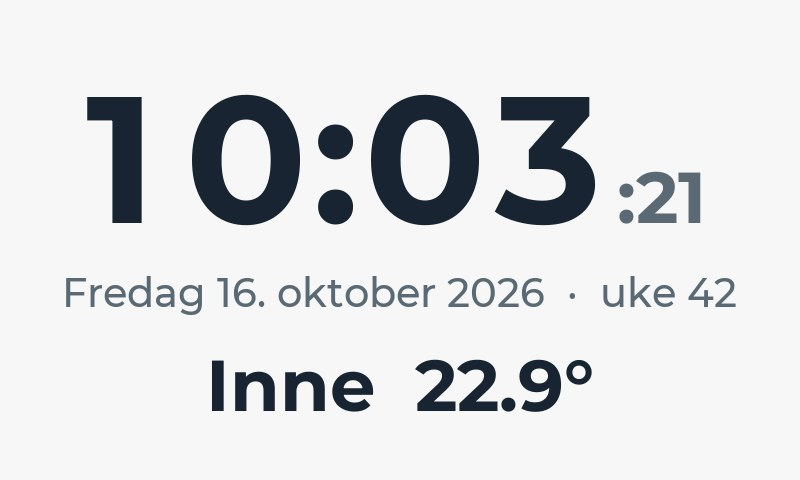
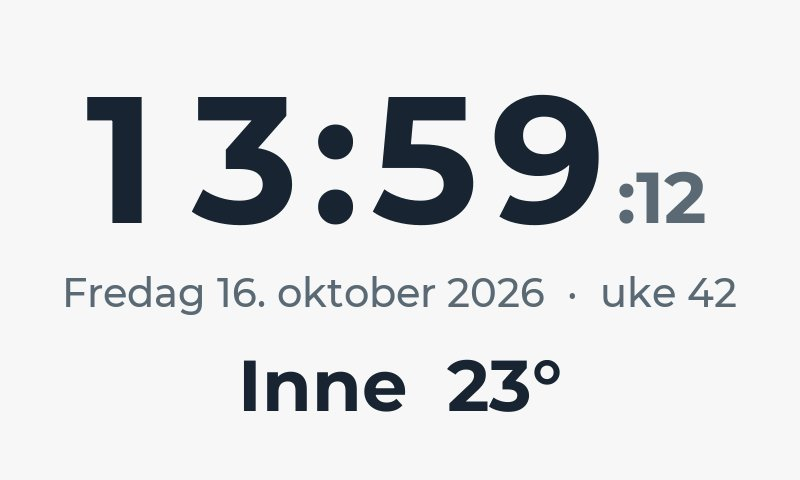
Clock screen: indoor temperature in whole degrees, version 1.19.1
The setup page keeps the tenths for calibrating, and says the clock
rounds them.

Claude-Session: https://claude.ai/code/session_01XfnDPVe3wRtXSM9B5h5WuE

diff --git a/server/bruk/index.html b/server/bruk/index.html
@@ -116,7 +116,7 @@ Pilene ved klokken blar fire uker fram eller tilbake. Skjermen går tilbake til 
 
 <section class="card" id="klokke">
 <h3>Klokke</h3>
-<p>Klokkeslettet med store tall, med sekundene mindre ved siden av. Under står dato og ukenummer, og nederst temperaturen inne.</p>
+<p>Klokkeslettet med store tall, med sekundene mindre ved siden av. Under står dato og ukenummer, og nederst temperaturen inne, i hele grader.</p>
 <p>Temperaturen måles av en sensor i selve brikken bak skjermen. Brikken er varmere enn rommet, omtrent 15 grader, så skjermen trekker fra en justering som du stiller inn én gang.
 Målingen jevnes ut over omtrent ett minutt. Den kan likevel variere en grad eller så etter hvor mye skjermen har å gjøre.</p>
 <div class="set"><b>Oppsett</b>Andre skjermer → Klokke → <i>Vis klokken</i> og <i>i automatisk bytte</i>. Slik stiller du inn temperaturen:
@@ -125,7 +125,7 @@ Målingen jevnes ut over omtrent ett minutt. Den kan likevel variere en grad ell
 <li>Legg et termometer ved skjermen og les av det.</li>
 <li>Skriv tallet inn i <i>Riktig temperatur nå (°C)</i>, for eksempel <code>21,5</code>, og lagre. Justeringen regnes da ut av seg selv.</li>
 </ol>
-Du kan også skrive justeringen direkte i <i>Justering (°C)</i>. Siden viser hva brikken måler nå, og hva som vises.
+Du kan også skrive justeringen direkte i <i>Justering (°C)</i>. Siden viser hva brikken måler nå, og hva det blir med justeringen, med én desimal.
 Justeringen gjelder bare denne skjermen og er ikke med i sikkerhetskopier.</div>
 <figure><img src="skjermer/klokke.jpg" alt="Klokke med klokkeslett, dato, ukenummer og innetemperatur" loading="lazy"><figcaption>Klokken med dato, ukenummer og temperaturen inne.</figcaption></figure>
 </section>

diff --git a/main/clockscreen.c b/main/clockscreen.c
@@ -26,7 +26,7 @@
 
 static lv_obj_t *s_root, *s_time, *s_hhmm[CLK_HHMM], *s_sec, *s_date, *s_temp;
 static time_t s_shown = -1; /* the second on show */
-static int s_shown_dc = -10000; /* the temperature on show, in tenths; -10000 = redraw, -10001 = none */
+static int s_shown_dc = -10000; /* the temperature on show, whole degrees; -10000 = redraw, -10001 = none */
 
 static bool dark(void)
 {
@@ -85,11 +85,12 @@ static void show_temp(void)
         }
         return;
     }
+    /* Whole degrees; the setup page shows the tenths for calibrating. */
     const int dc = (int)lroundf(raw * 10.0f) + g_cfg->temp_offset_dc;
-    if (dc != s_shown_dc) {
-        s_shown_dc = dc;
-        lv_label_set_text_fmt(s_temp, "Inne  %s%d.%d\xC2\xB0", dc < 0 ? "-" : "", (dc < 0 ? -dc : dc) / 10,
-                              (dc < 0 ? -dc : dc) % 10);
+    const int deg = (int)lroundf(dc / 10.0f);
+    if (deg != s_shown_dc) {
+        s_shown_dc = deg;
+        lv_label_set_text_fmt(s_temp, "Inne  %d\xC2\xB0", deg);
     }
 }
 

diff --git a/components/wifi_provision.c b/components/wifi_provision.c
@@ -276,14 +276,15 @@ static void tenths_text(char *dst, size_t len, int dc)
  * worked out on saving from what a thermometer shows (tempref). */
 static char *build_clock(char *p, char *end, const app_config_t *cfg)
 {
-    char off[16], now[128] = "Ingen m&aring;ling enn&aring;.";
+    char off[16], now[192] = "Ingen m&aring;ling enn&aring;.";
     tenths_text(off, sizeof(off), cfg->temp_offset_dc);
     float raw;
     if (chip_temp_raw(&raw)) {
         char r[16], shown[16];
         tenths_text(r, sizeof(r), (int)lroundf(raw * 10.0f));
         tenths_text(shown, sizeof(shown), (int)lroundf(raw * 10.0f) + cfg->temp_offset_dc);
-        snprintf(now, sizeof(now), "Brikken m&aring;ler n&aring; %s&nbsp;&deg;C, som vises som %s&nbsp;&deg;C.", r,
+        snprintf(now, sizeof(now), "Brikken m&aring;ler n&aring; %s&nbsp;&deg;C, som blir %s&nbsp;&deg;C med justeringen "
+                 "(klokken viser hele grader).", r,
                  shown);
     }
     return buf_append(p, end,

diff --git a/README.md b/README.md
@@ -488,7 +488,8 @@ One screen for the whole display, after the month calendar: under **Andre
 skjermer → Klokke** on the setup page, tick **Vis klokken** (and **i
 automatisk bytte**). The time across the middle in large digits (the
 seconds smaller beside them), the date and ISO week number under it, and
-the temperature indoors ("Inne 21.4°").
+the temperature indoors in whole degrees ("Inne 21°"; the setup page
+shows the tenths, for calibrating).
 
 The temperature comes from the ESP32-S3's own sensor (`components/chip_temp.c`),
 read every 5 s and smoothed over about a minute. It measures the chip,
